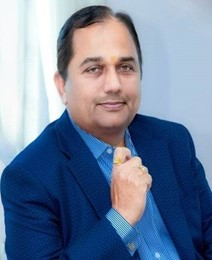
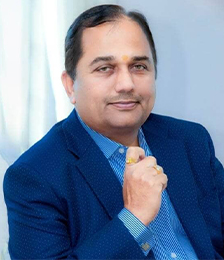
main
changes in aspecg ration

diff --git a/src/components/Home/compenents/Event/EventCard.jsx b/src/components/Home/compenents/Event/EventCard.jsx
@@ -2,7 +2,7 @@ import React, { useState } from "react";
 import { Link } from "react-router-dom";
 import ReactCardFlip from "react-card-flip";
 
-export const EventCard = ({ data }) => {
+const EventCard = ({ data }) => {
   const [isFlipped, setisFlipped] = useState(false);
 
   function handleClick(e) {
@@ -10,59 +10,66 @@ export const EventCard = ({ data }) => {
     setisFlipped(!isFlipped);
   }
 
+  const CardContent = ({ children }) => (
+    <div
+      onClick={handleClick}
+      className="flex justify-center items-center 
+          w-[280px] h-[350px] md:w-[400px] md:h-[500px] xl:w-[520px] xl:h-[650px]
+          bg-[rgb(35,35,35)] rounded-[11%] 
+          transition-all duration-500 ease-in-out cursor-pointer"
+    >
+      <div className="flex flex-col justify-center items-center w-[90%] h-[85%] rounded-[5%] bg-[rgb(31,31,31)] border-t-2 border-gray-400">
+        {children}
+      </div>
+    </div>
+  );
+
   return (
     <div className="flex flex-col md:flex-row justify-center items-center gap-4 mb-4">
       <ReactCardFlip isFlipped={isFlipped} flipDirection="vertical">
-        <div
-          key="front"
-          onClick={handleClick}
-          className="flex justify-center items-center 
-              w-[250px] h-[350px] md:w-[350px] md:h-[500px] xl:w-[500px] xl:h-[650px]
-              bg-[rgb(35,35,35)] rounded-[11%] 
-              transition-all duration-500 ease-in-out cursor-pointer"
-        >
-          <div className="flex flex-col justify-center items-center w-[90%] h-[85%] rounded-[5%] bg-[rgb(31,31,31)] border-t-2 border-gray-400">
-            <div
-              style={{ backgroundImage: data ? `url(${data.Image})` : "" }}
-              className="w-[80%] h-[55%] relative mt-6 rounded-3xl"
-            ></div>
-            <div className="text-gray-200 text-lg sm:text-xl md:text-3xl xl:text-4xl mt-5 font-semibold font-sf-pro text-center">
-              {data ? data.Name : ""}
-            </div>
-            <div className="text-gray-200 text-sm sm:text-md md:text-xl xl:text-2xl mt-3 font-semibold font-sf-pro text-center">
-              {data ? data.About : ""}
-            </div>
-            <div className="text-gray-200 text-xs sm:text-sm md:text-lg xl:text-xl mt-2 font-semibold font-sf-pro text-center mb-4">
-              {data ? data.Date : ""}
+        <CardContent key="front">
+          {/* Image container with 1:1 ratio */}
+          <div className="w-[80%] aspect-square mt-6 rounded-3xl relative overflow-hidden">
+            <div className="w-full h-full relative">
+              {data?.Image && (
+                <div
+                  style={{ backgroundImage: `url(${data.Image})` }}
+                  className="absolute inset-0 bg-center bg-cover bg-no-repeat"
+                />
+              )}
             </div>
           </div>
-        </div>
+          
+          <div className="text-gray-200 text-lg sm:text-xl md:text-3xl xl:text-4xl mt-5 font-semibold font-sf-pro text-center">
+            {data?.Name}
+          </div>
+          <div className="text-gray-200 text-sm sm:text-md md:text-xl xl:text-2xl mt-3 font-semibold font-sf-pro text-center">
+            {data?.About}
+          </div>
+          <div className="text-gray-200 text-xs sm:text-sm md:text-lg xl:text-xl mt-2 font-semibold font-sf-pro text-center mb-4">
+            {data?.Date}
+          </div>
+        </CardContent>
 
-        <div
-          key="back"
-          onClick={handleClick}
-          className="flex justify-center items-center 
-              w-[250px] h-[350px] md:w-[350px] md:h-[500px] xl:w-[500px] xl:h-[650px]
-              bg-[rgb(35,35,35)] rounded-[11%] 
-              transition-all duration-500 ease-in-out cursor-pointer"
-        >
-          <div className="flex flex-col justify-center items-center w-[90%] h-[85%] rounded-[5%] bg-[rgb(31,31,31)] border-t-2 border-gray-400">
-            <div className="text-gray-200 text-lg sm:text-xl md:text-3xl xl:text-4xl mt-5 font-semibold font-sf-pro text-center">
-              {data ? data.Details : ""}
-            </div>
-            <div className="text-gray-200 text-sm sm:text-md md:text-xl xl:text-2xl mt-3 font-semibold font-sf-pro text-center">
-              {data ? data.MInfo : ""}
-            </div>
-            <div className="text-gray-200 text-xs sm:text-sm md:text-lg xl:text-xl mt-2 font-semibold font-sf-pro text-center mb-4">
-              {data ? data.AInfo : ""}
-            </div>
-            <Link to={data ? data.Link : ""}>
-              <button className="bg-[#252525] border border-[#252525]  font-sf-pro font-semibold text-lg text-white py-2 px-4 rounded-full mt-4">
-                Register
-              </button>
-            </Link>
+        <CardContent key="back">
+          <div className="text-gray-200 text-lg sm:text-xl md:text-3xl xl:text-4xl mt-5 font-semibold font-sf-pro text-center">
+            {data?.Details}
           </div>
-        </div>
+          <div className="text-gray-200 text-sm sm:text-md md:text-xl xl:text-2xl mt-3 font-semibold font-sf-pro text-center">
+            {data?.MInfo}
+          </div>
+          <div className="text-gray-200 text-xs sm:text-sm md:text-lg xl:text-xl mt-2 font-semibold font-sf-pro text-center mb-4">
+            {data?.AInfo}
+          </div>
+          <Link 
+            to={data?.Link || ""} 
+            onClick={(e) => e.stopPropagation()}
+          >
+            <button className="bg-[#252525] border border-[#252525] font-sf-pro font-semibold text-lg text-white py-2 px-4 rounded-full mt-4">
+              Register
+            </button>
+          </Link>
+        </CardContent>
       </ReactCardFlip>
     </div>
   );

diff --git a/src/components/Home/compenents/faculty/Label.jsx b/src/components/Home/compenents/faculty/Label.jsx
@@ -1,18 +1,21 @@
 import React from "react";
 
-const Faculty = ({ Name, Postition, Image }) => {
+const Faculty = ({ Name, Position, Image }) => {
   return (
     <div className="w-[320px] h-[400px] md:w-[280px] md:h-[350px] sm:w-[240px] sm:h-[300px] bg-[rgb(30,30,30)] border-t-2 border-gray-400 rounded-[8%]">
       <div className="flex flex-col justify-center items-center hover:scale-110 transition-transform duration-900">
         <div
-          style={{ backgroundImage: `url(${Image})` }}
-          className="w-[224px] h-[260px] md:w-[200px] md:h-[240px] sm:w-[180px] sm:h-[220px] mt-[10%] rounded-[8%]"
+          style={{ 
+            backgroundImage: `url(${Image})`,
+            aspectRatio: '4 / 5' // Setting the aspect ratio to 4:5
+          }}
+          className="w-[224px] md:w-[200px] sm:w-[180px] mt-[10%] rounded-[8%] bg-cover bg-center"
         ></div>
         <div className="text-gray-200 font-sf-pro text-2xl md:text-xl sm:text-lg text-center font-semibold mt-[3%]">
           {Name}
         </div>
         <div className="text-gray-200 font-sf-pro text-l md:text-base sm:text-sm text-center font-semibold">
-          {Postition}
+          {Position}
         </div>
       </div>
     </div>

diff --git a/src/components/OurTeam/Team/TeamMemberCard.jsx b/src/components/OurTeam/Team/TeamMemberCard.jsx
@@ -6,7 +6,8 @@ const TeamMemberCard = ({ member }) => {
       {/* Card Container */}
       <div
         className="relative overflow-hidden rounded-lg bg-gray-800 
-          transition-transform duration-300 ease-in-out group-hover:-translate-y-2 w-60 h-80"
+          transition-transform duration-300 ease-in-out group-hover:-translate-y-2 w-60"
+        style={{ aspectRatio: '4 / 5' }}
       >
         {/* Image Container */}
         <img

diff --git a/src/components/Home/compenents/Event/EventData.js b/src/components/Home/compenents/Event/EventData.js
@@ -1,4 +1,5 @@
 import Try from "../../../../assets/try.jpg";
+import Dil from "../../../../assets/Dil.jpg";
 
 export const EventData = [
   {
@@ -9,7 +10,7 @@ export const EventData = [
     MInfo: "Organized a heartwarming charity  event to make a difference in the lives",
     AInfo: "of those who need it most.o",
     Link: "/register",
-    Image: Try,
+    Image: Dil,
   },
   {
     Name: "Vision Voyage",
